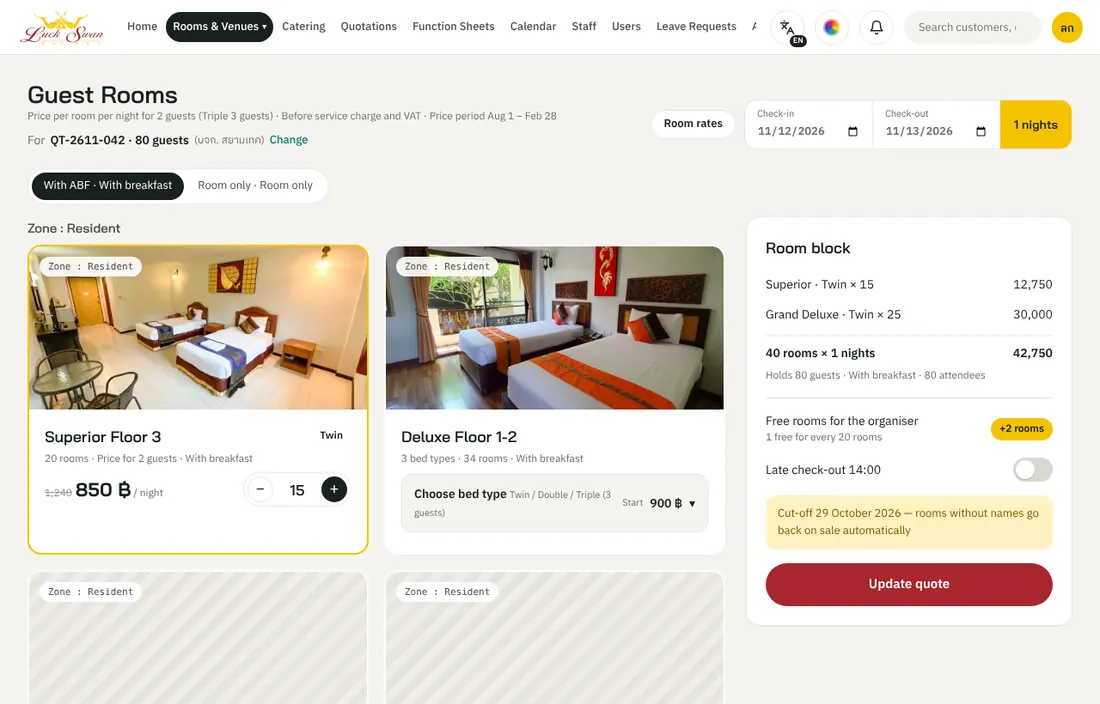
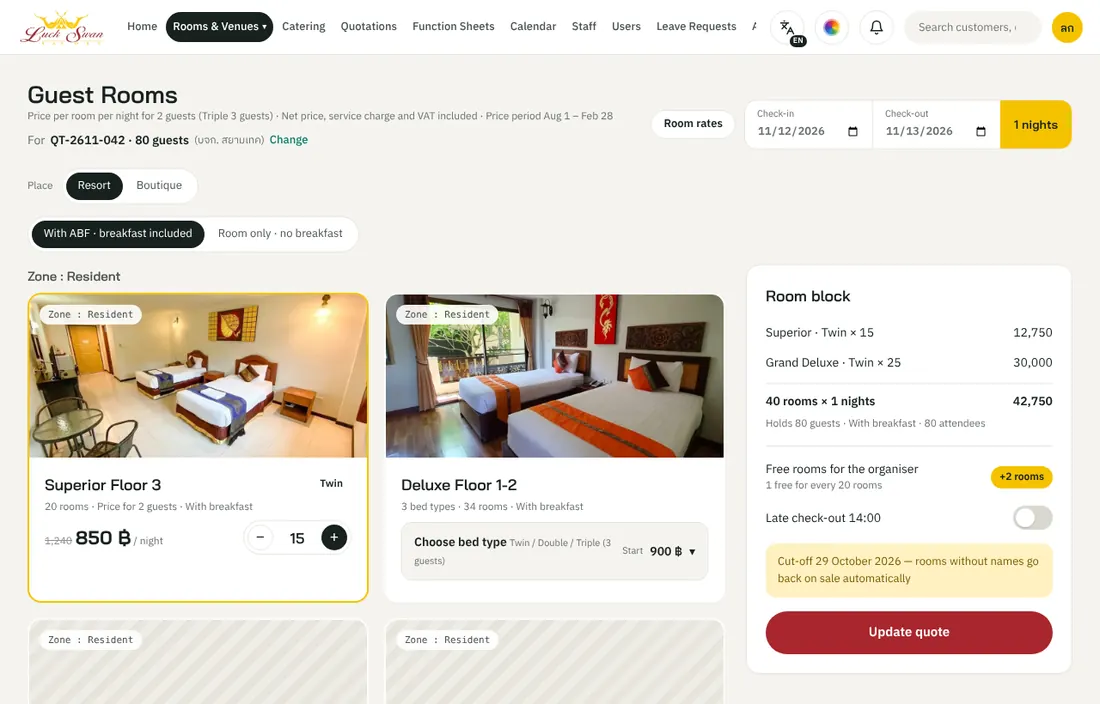
Manual 1.2 (Thai): boutique rooms and rates, attendees and type of event on the function sheet
Claude-Session: https://claude.ai/code/session_015bPeSMdisNsHViU4e5orFu

diff --git a/docs/manual/content.th.js b/docs/manual/content.th.js
@@ -14,7 +14,7 @@ window.MANUAL.th = {
     title: 'คู่มือการใช้งานระบบงานขาย',
     subtitle: 'ลักษวรรณ รีสอร์ท — ใบเสนอราคา ห้องประชุม ห้องพัก จัดเลี้ยง ใบฟังก์ชัน พนักงาน ใบลา และงานที่มอบหมาย',
     url: 'https://luckswan-sales.it-luckswan.workers.dev',
-    version: '1.1', updated: '22 ต.ค. 2569',
+    version: '1.2', updated: '26 ต.ค. 2569',
     intro: 'ระบบงานขายเป็นเว็บแอปที่ใช้ได้ทั้งคอมพิวเตอร์ iPad และมือถือ ทุกคนเห็นข้อมูลชุดเดียวกันแบบเรียลไทม์ เมนูที่แต่ละคนเห็นขึ้นกับบทบาทและสิทธิ์ที่ผู้ดูแลระบบกำหนดให้ คู่มือนี้อธิบายทุกหมวดตั้งแต่เข้าสู่ระบบจนถึงงานของแต่ละแผนก พร้อมรูปหน้าจอจริงประกอบทุกขั้นตอน'
   },
   groups: [
@@ -96,18 +96,22 @@ window.MANUAL.th = {
     },
     {
       id: 'rooms', group: 'sell', icon: 'bed', title: 'ห้องพักและการตั้งราคาห้อง', who: 'ฝ่ายขาย · ผู้ดูแลระบบ (ตั้งราคา)',
-      intro: 'เมนู การจัดการห้อง › ห้องพัก ใช้จัด Room block ของกลุ่ม ราคาคิดตามช่วงฤดูอัตโนมัติ',
+      intro: 'เมนู การจัดการห้อง › ห้องพัก ใช้จัด Room block ของกลุ่ม เลือกสถานที่ได้ 2 แห่ง: รีสอร์ท (ราคาคิดตามช่วงฤดูอัตโนมัติ) และ บูติก',
       steps: [
-        'เลือกวันเช็คอินและจำนวนคืนด้านบน แล้วเลือก With ABF (รวมอาหารเช้า) หรือ Room only',
+        'เลือก “สถานที่” ด้านบน: รีสอร์ท หรือ บูติก',
+        'รีสอร์ท: เลือกวันเช็คอินและจำนวนคืนด้านบน แล้วเลือก With ABF (รวมอาหารเช้า) หรือ Room only',
         'ในการ์ดประเภทห้อง กด − / + เพื่อกำหนดจำนวนห้อง และเลือกแบบเตียง (Twin / Double / Triple 3 ท่าน)',
         'ดูสรุป Room block ด้านขวา: จำนวนห้อง ผู้เข้าพัก ห้องฟรีสำหรับผู้จัด (ทุก 20 ห้อง ฟรี 1 ห้อง)',
         'เปิด/ปิด Late check-out 14:00 ตามที่ตกลงกับลูกค้า',
         'ดูวันปล่อยห้อง (cut-off) ในกล่องสีเหลือง ห้องที่ยังไม่มีรายชื่อจะคืนระบบอัตโนมัติ',
         'กด “อัปเดตใบเสนอ” เพื่อบันทึกห้องพักลงในใบเสนอราคา',
-        'ผู้ดูแลระบบ: กด “ตั้งราคาห้องพัก” เพื่อแก้ช่วงราคา (ฤดูกาล) จำนวนห้อง และราคาแต่ละประเภท With ABF / Room only แล้วกดบันทึก'
+        'บูติก: ห้อง Standard 400 · Superior 500 · Deluxe 600 บาท/ห้อง/คืน (รวมข้าวต้ม กาแฟ แครกเกอร์ สำหรับ 2 ท่าน) กด − / + กำหนดจำนวนห้อง',
+        'บูติก: อาหารซื้อเพิ่มต่อท่าน — อาหารเช้า 50 / 100 / 150 บาท และอาหารเย็นงานเลี้ยง 350 / 399 / 450 บาท เลือกราคาแล้วใส่จำนวนท่าน (กด + ครั้งแรก ระบบใส่จำนวนผู้เข้าร่วมของใบให้) คูณจำนวนคืนอัตโนมัติ',
+        'บูติก: กด “อัปเดตใบเสนอ” — ห้องในใบจะเป็นห้องบูติก (ชื่อขึ้นต้น “บูติก ·”) และอาหารไปอยู่ในหมวดอาหารและเครื่องดื่ม · เปิดหน้าห้องพักอีกครั้งจะกลับมาที่บูติกพร้อมจำนวนเดิม',
+        'ผู้มีสิทธิ์แก้ราคา: กด “ตั้งราคาห้องพัก” เพื่อแก้ช่วงราคา (ฤดูกาล) จำนวนห้อง และราคาแต่ละประเภท With ABF / Room only — ส่วน “บูติก” แก้ราคาห้อง 3 แบบ และราคาอาหาร 3 ระดับ แล้วกดบันทึก'
       ],
-      shots: [{ img: 'rooms', cap: 'จัด Room block: เลือกประเภท จำนวน และแบบเตียง' }, { img: 'roomrates', cap: 'ตั้งราคาห้องพักตามช่วงฤดูกาล (ผู้ดูแลระบบ)' }],
-      tips: ['ราคาห้องเป็นราคาต่อห้องต่อคืน สำหรับ 2 ท่าน (Triple 3 ท่าน) เป็นราคา Net รวม Service และ VAT แล้ว (คิดแบบเดียวกับใบเสนอราคา)']
+      shots: [{ img: 'rooms', cap: 'จัด Room block รีสอร์ท: เลือกประเภท จำนวน และแบบเตียง' }, { img: 'rooms-bq', cap: 'ห้องพักบูติก และอาหารซื้อเพิ่ม' }, { img: 'roomrates', cap: 'ตั้งราคาห้องพักตามช่วงฤดูกาล' }, { img: 'roomrates-bq', cap: 'ตั้งราคาบูติก: ห้องพักและอาหาร' }],
+      tips: ['ราคาห้องเป็นราคาต่อห้องต่อคืน สำหรับ 2 ท่าน (Triple 3 ท่าน) เป็นราคา Net รวม Service และ VAT แล้ว (คิดแบบเดียวกับใบเสนอราคา)', 'ใบเสนอราคาหนึ่งใบใช้ห้องพักได้ทีละสถานที่ — กดอัปเดตใบเสนอจากบูติก จะแทนห้องรีสอร์ทเดิมในใบ (และกลับกัน)', 'บูติกไม่ใช้ห้องฟรีทุก 20 ห้อง และ Late check-out ของรีสอร์ท']
     },
     {
       id: 'food', group: 'sell', icon: 'food', title: 'จัดเลี้ยงและเมนูอาหาร', who: 'ฝ่ายขาย · ผู้ดูแลระบบ (แก้เมนู)',
@@ -175,13 +179,14 @@ window.MANUAL.th = {
         'รายการด้านซ้ายแบ่งเป็น ใกล้ถึง · ทั้งหมด · ร่าง ป้ายบอกสถานะ เช่น “ครบทุกแผนก” “รอรับทราบ 2”',
         'กด “+ สร้างจากใบเสนอ” แล้วเลือกใบเสนอราคา ระบบดึงห้อง อาหาร จำนวนคนให้อัตโนมัติ',
         'ส่วนหัวแสดง วันงาน จำนวนยืนยัน (+5% สำรอง) ห้อง ผู้ติดต่อ และฝ่ายขาย',
+        'กรอบ “ประเภทผู้เข้าร่วมงาน และ ลักษณะงาน”: กดที่หัวกิ่งเพื่อกาง แล้วกดเลือกได้หลายข้อ เช่น เด็กนักเรียนมัธยม · อาจารย์ / Team building · คลาสสอน — หัวกิ่งแสดงสิ่งที่เลือก · ✏ แก้ไข / เพิ่ม / ลบตัวเลือกภายในกิ่ง (ผู้ดูแลระบบ ผู้จัดการฝ่ายขาย พนักงานขาย) บทบาทอื่นเห็นอย่างเดียว',
         'กำหนดการรายวัน: เวลา รายละเอียด สถานที่ และแผนกที่รับผิดชอบ (สลับ “วันที่ 1 / วันที่ 2”) — นำเข้าจากไฟล์ Excel ได้',
         'การ์ดแต่ละแผนก (ครัว จัดเลี้ยง ช่าง ส่วนหน้า แม่บ้าน บัญชี) แสดงรายการงานและสถานะ “รับทราบแล้ว / รอรับทราบ” กด “แก้ไข” เพื่อเพิ่มงานของแผนก',
         'ทุกครั้งที่แก้หลังส่งแล้ว ระบบนับ “แก้ไขครั้งที่ …” และส่งให้ผู้ดูแลระบบอนุมัติก่อนส่งแผนก',
         'ปุ่มด้านบน: รายละเอียดฟังก์ชัน · ใบสรุปสำหรับฝ่ายขาย · ออกแบบผังงาน (ผู้ดูแลระบบ แผนก F&B และแผนกจัดเลี้ยง) · แก้ไขปรับปรุง (ผู้ดูแลระบบ) · พิมพ์ / PDF'
       ],
-      shots: [{ img: 'beo', cap: 'ใบฟังก์ชัน: กำหนดการรายวันและการ์ดแต่ละแผนก' }, { img: 'beo-list', cap: 'รายการใบฟังก์ชันพร้อมสถานะการรับทราบ' }],
-      tips: ['หัวหน้าแผนกควรกด “รับทราบ” ทุกครั้งที่มีใบใหม่หรือมีการแก้ไข']
+      shots: [{ img: 'beo', cap: 'ใบฟังก์ชัน: กำหนดการรายวันและการ์ดแต่ละแผนก' }, { img: 'beo-tags', cap: 'ประเภทผู้เข้าร่วมงาน และ ลักษณะงาน' }, { img: 'beo-list', cap: 'รายการใบฟังก์ชันพร้อมสถานะการรับทราบ' }],
+      tips: ['หัวหน้าแผนกควรกด “รับทราบ” ทุกครั้งที่มีใบใหม่หรือมีการแก้ไข', 'การเลือกประเภทผู้เข้าร่วมงานและลักษณะงานไม่ทำให้ใบต้องขออนุมัติการแก้ไขใหม่ · รายการตัวเลือกใช้ร่วมกันทุกใบ']
     },
     {
       id: 'plan', group: 'event', icon: 'grid', title: 'ออกแบบผังงานและแก้ไขปรับปรุงห้อง', who: 'ผู้ดูแลระบบ · แผนก F&B · แผนกจัดเลี้ยง (หัวหน้าและพนักงาน)',
@@ -337,7 +342,7 @@ window.MANUAL.th = {
       steps: [
         'กด “+ ใบเสนอราคาใหม่” › ทำ 5 ขั้น: ลูกค้า (ใส่เลขผู้เสียภาษีได้) › ห้องประชุม › อาหาร › ห้องพัก › สรุป',
         'เปิดใบเสนอราคา › ปรับรายการ ส่วนลด เงื่อนไข › กด ส่ง / พิมพ์ › เลือก ใบสำหรับลูกค้า / ฉบับเต็ม › แก้ข้อมูลบนใบได้ › ส่งอีเมลหรือพิมพ์ PDF',
-        'ลูกค้ายืนยัน › เปลี่ยนสถานะเป็น “ยืนยันแล้ว” › ใบฟังก์ชัน › “+ สร้างจากใบเสนอ”',
+        'ลูกค้ายืนยัน › เปลี่ยนสถานะเป็น “ยืนยันแล้ว” › ใบฟังก์ชัน › “+ สร้างจากใบเสนอ” › เลือกประเภทผู้เข้าร่วมงานและลักษณะงาน',
         'กรอกกำหนดการรายวันและงานของแต่ละแผนก › ติดตามการรับทราบ',
         'ดูปฏิทินก่อนรับงานใหม่ เพื่อเช็คห้องว่าง'
       ],
@@ -360,7 +365,7 @@ window.MANUAL.th = {
       can: ['ดูใบฟังก์ชันและปฏิทินการจอง', 'จัดรอบพนักงาน / อนุมัติต่อรอบ'],
       steps: [
         'เช็คกระดิ่งทุกเช้า: ใบฟังก์ชันใหม่หรือแก้ไข › เปิดใบ › กด “รับทราบ” ในการ์ดแผนกของตัวเอง',
-        'ดูกำหนดการรายวันและผังงาน เพื่อเตรียมของและคน (F&B และจัดเลี้ยง: ออกแบบผังงานได้)',
+        'ดูกำหนดการรายวัน ประเภทผู้เข้าร่วมงาน ลักษณะงาน และผังงาน เพื่อเตรียมของและคน (F&B และจัดเลี้ยง: ออกแบบผังงานได้)',
         'พนักงาน › รอบพนักงาน › เลือกงาน › จัดพนักงานเข้ารอบ › ขอต่อรอบเมื่อจำเป็น',
         'ดูแลรายชื่อพนักงานในแผนก (เพิ่ม/แก้ไข/นำเข้า)',
         'งานที่มอบหมายให้แผนก › เปิดดู › กด “ยืนยัน” เมื่อเตรียมเสร็จ'
@@ -416,6 +421,7 @@ window.MANUAL.th = {
     }
   ],
   changelog: [
+    { v: '1.2', date: '26 ต.ค. 2569', text: 'ห้องพัก: เลือกสถานที่ รีสอร์ท / บูติก (ห้อง Standard · Superior · Deluxe พร้อมอาหารเช้าและอาหารเย็นงานเลี้ยงซื้อเพิ่ม) และตั้งราคาบูติก · ข้อความราคาห้องเป็นราคา Net · ใบฟังก์ชัน: กรอบประเภทผู้เข้าร่วมงานและลักษณะงาน (เลือกแบบกิ่ง แก้ไข/เพิ่ม/ลบตัวเลือก)' },
     { v: '1.1', date: '22 ต.ค. 2569', text: 'ห้องประชุม: ปุ่ม ✏ แก้รูป ราคา จำนวนคน และเลื่อนดูรูปตัวอย่าง · ใบเสนอราคา: ราคาแบบ Net ถอดยอด Service Charge/VAT ย้อนกลับ ช่องเลขผู้เสียภาษี ใบสำหรับลูกค้า/ฉบับเต็ม แก้ไขข้อมูลบนใบ เปลี่ยนรูปห้องประชุม และเงื่อนไขบัตรเครดิต 3% · ใบฟังก์ชัน: สิทธิ์แก้ไขรายละเอียดฟังก์ชัน ส่วนบัญชี/การเงิน และออกแบบผังงาน (F&B · จัดเลี้ยง) · Assignment: เลือกสถานที่เมื่อมอบให้แผนก และ ⚙ ตั้งค่าสิทธิ์การสั่งงาน (ผังองค์กรพร้อมซูมและแก้ไข/เพิ่ม/ลบ หรือแบบฟอร์ม)' },
     { v: '1.0', date: '21 ต.ค. 2569', text: 'ฉบับแรก ครอบคลุมทุกหมวด: ใบเสนอราคา ห้องประชุม ห้องพัก จัดเลี้ยง ใบฟังก์ชัน ผังงาน ปฏิทิน พนักงาน (สถานที่ แผนก ตำแหน่ง นำเข้า) รอบพนักงาน งานที่มอบหมาย ใบลา ผู้ใช้งาน Dashboard ภาษา 3 ภาษา และธีมสี' }
   ]

diff --git a/docs/manual/tools/shots.js b/docs/manual/tools/shots.js
@@ -19,8 +19,8 @@ const W = ms => new Promise(r => setTimeout(r, ms));
     await click('[data-act=notifs]'); await shot('notifs'); await close();
     await click('[data-act=userMenu]'); await shot('usermenu'); await close();
     await go('#/meet'); await shot('meet'); await click('[data-act=meetSel]'); await shot('meet-sel'); await click('[data-act=meetEdit]'); await shot('meet-edit'); await close();
-    await go('#/rooms'); await shot('rooms');
-    await go('#/roomrates'); await shot('roomrates');
+    await go('#/rooms'); await shot('rooms'); await click('[data-act=rmSite][data-v=boutique]'); await click('[data-act=bqStep][data-k=bq_sup][data-v="1"]'); await click('[data-act=bqTier][data-k=bf][data-v="1"]'); await click('[data-act=bqPax][data-k=bf][data-v="1"]'); await p.evaluate(() => window.scrollTo(0, 0)); await shot('rooms-bq'); await p.evaluate(() => { App.state.ui.rooms = null; });
+    await go('#/roomrates'); await shot('roomrates'); await p.evaluate(() => document.querySelector('[data-change=rrBq]').scrollIntoView({ block: 'center' })); await shot('roomrates-bq');
     await go('#/food'); await shot('food'); await click('[data-act=foodEdit]'); await shot('food-edit'); await close();
     await go('#/quotes'); await shot('quotes');
     await go('#/quote/QT-2611-042'); await shot('quote-edit');
@@ -30,7 +30,7 @@ const W = ms => new Promise(r => setTimeout(r, ms));
     await shot('wiz1');
     for (let i = 2; i <= 5; i++) { await click('[data-act=wizNext]'); await W(300); const e = await p.$('[data-act=wizSel]'); if (e && await e.isVisible()) { await e.click().catch(() => {}); await W(250); await close(); } await shot('wiz' + i); }
     await go('#/beo'); await shot('beo-list');
-    await go('#/beo/FS-2611-018'); await shot('beo');
+    await go('#/beo/FS-2611-018'); await shot('beo'); await click('[data-act=btFold][data-k=guests]'); await click('[data-act=btFold][data-k=kinds]'); await click('[data-act=btPick][data-k=guests][data-v=g4]'); await click('[data-act=btPick][data-k=kinds][data-v=k6]'); await p.evaluate(() => document.querySelector('.bt-grid').scrollIntoView({ block: 'center' })); await shot('beo-tags');
     await go('#/plan/FS-2611-018/1'); await click('[data-act=fpAuto]'); await shot('plan');
     await go('#/plansetup'); await shot('plansetup');
     await go('#/fn/FS-2611-018'); await shot('fn');
